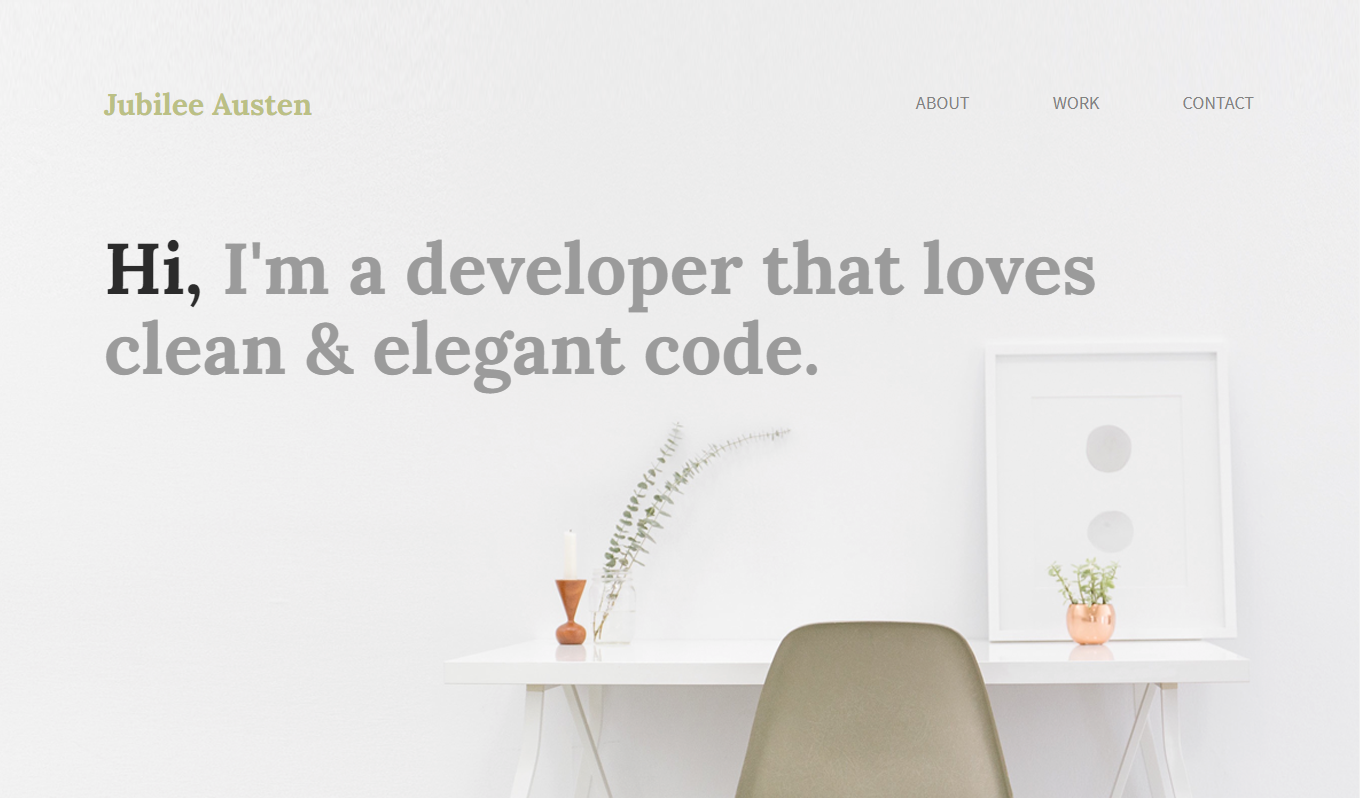
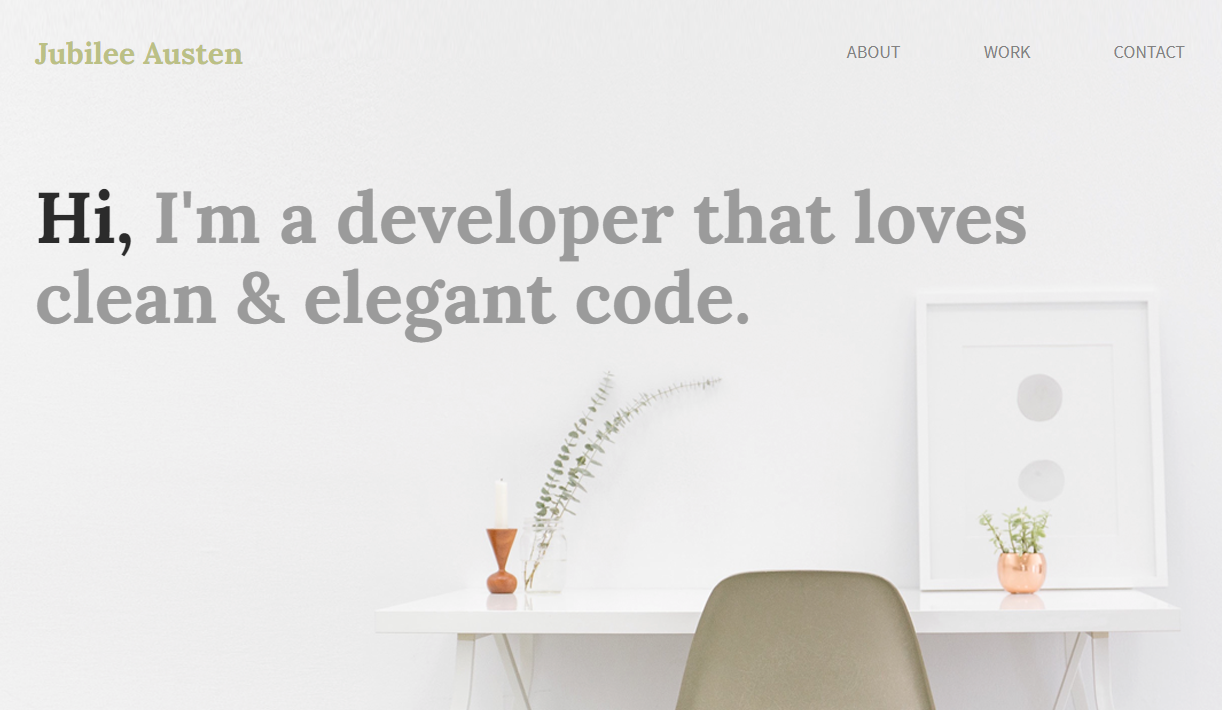
Tablet and desktop responsive

diff --git a/css/main.css b/css/main.css
@@ -1,12 +1,11 @@
 /***** BASE STYLES *****/
 
 html {
-  font-size: 16px;
+  font-size: 18px;
 }
 
 body {
   font-family: 'Open Sans', sans-serif;
-  font-size: 1em;
 }
 
 ul,
@@ -23,24 +22,23 @@ a {
 
 h1 {
   font-family: 'Libre Baskerville', serif;
-  font-size: 4rem;
+  font-size: 3em;
 }
 
 h2 {
   font-family: 'Open Sans', sans-serif;
-  font-size: 3rem;
   font-weight: 400;
+  font-size: 2.5em;
 }
 
 h3 {
   font-family: 'Libre Baskerville', serif;
-  font-size: 3.5rem;
   text-align: center;
-  margin: 80px 0;
+  font-size: 1.5em;
+  margin: 60px 0;
 }
 
 p {
-  font-size: 1.5rem;
   text-align: center;
 }
 
@@ -54,7 +52,7 @@ figure {
 
 .content-wrapper {
   width: 90%;
-  margin: 150px 0;
+  padding: 60px 0;
 }
 
 header {
@@ -62,24 +60,23 @@ header {
   justify-content: center;
   align-items: center;
   flex-flow: row wrap;
+  padding-top: 15px;
 }
 
 header .content-wrapper {
   display: flex;
   justify-content: center;
   align-items: center;
-  flex-flow: row wrap;
+  flex-direction: column;
 }
 
 header nav {
   width: 80%;
-  font-size: 2.5rem;
   font-weight: 700;
   text-transform: uppercase;
   display: flex;
   justify-content: space-around;
   align-items: center;
-  flex-flow: row wrap;
 }
 
 header nav ul {
@@ -92,11 +89,14 @@ header nav ul li {
   color: #e09f3e;
 }
 
-.header-content {
-  padding: 200px 0;
+.header-divider {
+  height: 1px;
+  width: 100%;
+  margin: 10px 0 20px 0;
 }
 
-.header-content span {
+.header-content span,
+.header-content i {
   color: #e09f3e;
 }
 
@@ -118,10 +118,10 @@ header nav ul li {
 
 #headshot {
   width: 60%;
+  border: 5px solid white;
   display: flex;
   justify-content: center;
   align-items: center;
-  padding: 100px 0;
 }
 
 .about-me {
@@ -133,12 +133,10 @@ header nav ul li {
 #work {
   display: flex;
   justify-content: center;
-  align-items: center;
   flex-flow: row wrap;
 }
 
 .portfolio {
-  padding: 100px 0;
   display: flex;
   justify-content: center;
   align-items: center;
@@ -151,11 +149,9 @@ header nav ul li {
   justify-content: center;
   align-items: center;
   flex-flow: column;
+  margin: 30px 0;
 }
 
-.thumbnail {
-  padding: 100px 0;
-}
 .portfolio-item p {
   width: 90%;
 }
@@ -165,37 +161,132 @@ footer {
   color: white;
   display: flex;
   justify-content: center;
-  align-items: center;
+  padding-bottom: 60px;
 }
 
 footer .content-wrapper {
+  max-width: 900px;
+}
+.contact {
+  display: flex;
+  justify-content: space-around;
+  align-items: center;
+  flex-flow: row wrap;
+}
+
+footer a {
+  color: white;
+}
+
+.me p {
+  margin: 0;
+}
+
+.me {
+  margin-bottom: 50px;
   display: flex;
   justify-content: center;
   align-items: center;
   flex-flow: column;
-}
-footer .contact {
-  width: 60%;
-}
-
-footer p {
-  font-size: 2.3rem;
-  margin: 0;
-}
-
-footer .me {
-  margin: 60px 0;
+  align-self: flex-start;
 }
 
 footer .social-icons {
   width: 100%;
   display: flex;
-  justify-content: space-around;
+  justify-content: center;
   align-items: center;
   flex-flow: row;
 }
 
+footer .social-icons p {
+  margin: 0 15px;
+}
+
 footer .social-icons p i {
   color: white;
-  font-size: 4rem;
+  font-size: 2em;
+}
+
+@media only screen and (min-width: 768px) {
+  /*Tablet styles here*/
+
+  /* General styles */
+  .content-wrapper {
+    max-width: 1000px;
+  }
+
+  h1 {
+    line-height: 1.4;
+  }
+
+  h2 {
+    line-height: 1.333;
+  }
+
+  h3 {
+    line-height: 1.25;
+  }
+
+  header {
+    justify-content: space-around;
+    padding: 33px 0;
+  }
+
+  header .content-wrapper {
+    width: 90%;
+  }
+
+  .header-content {
+    width: 80%;
+    align-self: flex-start;
+  }
+
+  header nav {
+    width: 40%;
+    align-self: flex-end;
+  }
+
+  header nav ul {
+    justify-content: space-around;
+  }
+
+  header nav ul li {
+  }
+
+  .header-divider {
+    margin: 50px 0;
+  }
+
+  .header-content {
+    padding: 0;
+  }
+
+  #headshot {
+    width: 50%;
+    padding: 0;
+  }
+
+  #about .content-wrapper {
+    width: 60%;
+  }
+
+  .portfolio-item {
+    width: 28%;
+    align-self: flex-start;
+    flex-grow: 1;
+    margin: 0 15px;
+  }
+
+  .thumbnail {
+    width: 100%;
+  }
+
+
+}
+
+@media only screen and (min-width: 1200px) {
+  /*Desktop styles here*/
+
+
 }

diff --git a/index.html b/index.html
@@ -1,3 +1,5 @@
+<!doctype html>
+<html class="no-js" lang="">
 <html>
   <head>
     <title>Morgan Heuer | Portfolio</title>
@@ -12,13 +14,14 @@
         <nav>
           <ul>
             <li><a href="#about">About</a></li>
-            <li><a href="#work">Work</a></li>
+            <li><a href="#work">Portfolio</a></li>
             <li><a href="#contact">Contact</a></li>
           </ul>
         </nav>
+        <div class="header-divider"></div>
         <div class="header-content">
-          <h1>Hey Y'all! My name is <span>Morgan Heuer.</span></h1>
-          <h2>I am a Web Developer with an appreciation for good, modern, web design.</h2>
+          <h1><i class="fas fa-sun"></i> Hey y'all! <br> My name is <span>Morgan Heuer.</span></h1>
+          <h2>I am a Web Developer with an appreciation for clean, modern, web design.</h2>
         </div>
       </div>
     </header>
@@ -31,8 +34,7 @@
           </figure>
           <div class="about-me">
             <p><strong>I am passionate about making the world a more beautiful place.</strong></p>
-            <p>I’m a New Orleans girl, born and raised, but am trying out life in the Pacific North West for moment.</p>
-            <p>In my free time, I love to paint, journal, cook, or call my mom. You can find me on Sundays at the Ballard Farmer's Market shopping for local, fresh, goodies.</p>
+            <p>I’m a New Orleans girl, born and raised, but am trying out life in the Pacific North West for the moment. In my free time, I love to paint, journal, cook, or call my mom. You can find me on Sundays at the Ballard Farmer's Market shopping for local, fresh, goodies.</p>
           </div>
         </div>
       </section>
@@ -65,7 +67,7 @@
         </div>
       </section>
     </main>
-    <footer>
+    <footer id="contact">
       <div class="content-wrapper">
         <h3>Let's Connect</h3>
         <div class="contact">
@@ -73,14 +75,14 @@
             <p><strong>Hire me</strong></p>
             <br>
             <p>504-301-6801</p>
-            <p>morganheuer@gmail.com</p>
+            <p><a href="mailto:morganheuer@gmail.com">morganheuer@gmail.com</a></p>
           </div>
           <div class="me">
             <p><strong>Follow me</strong></p>
             <br>
             <div class="social-icons">
               <p>
-                <a href="https://www.instagram.com/ morgan_heuer/" target="_blank"><i class="fab fa-instagram"></i></a>
+                <a href="https://www.instagram.com/morgan_heuer/" target="_blank"><i class="fab fa-instagram"></i></a>
               </p>
               <p>
                 <a href="https://github.com/morganheuer" target="_blank"><i class="fab fa-github"></i></a>
